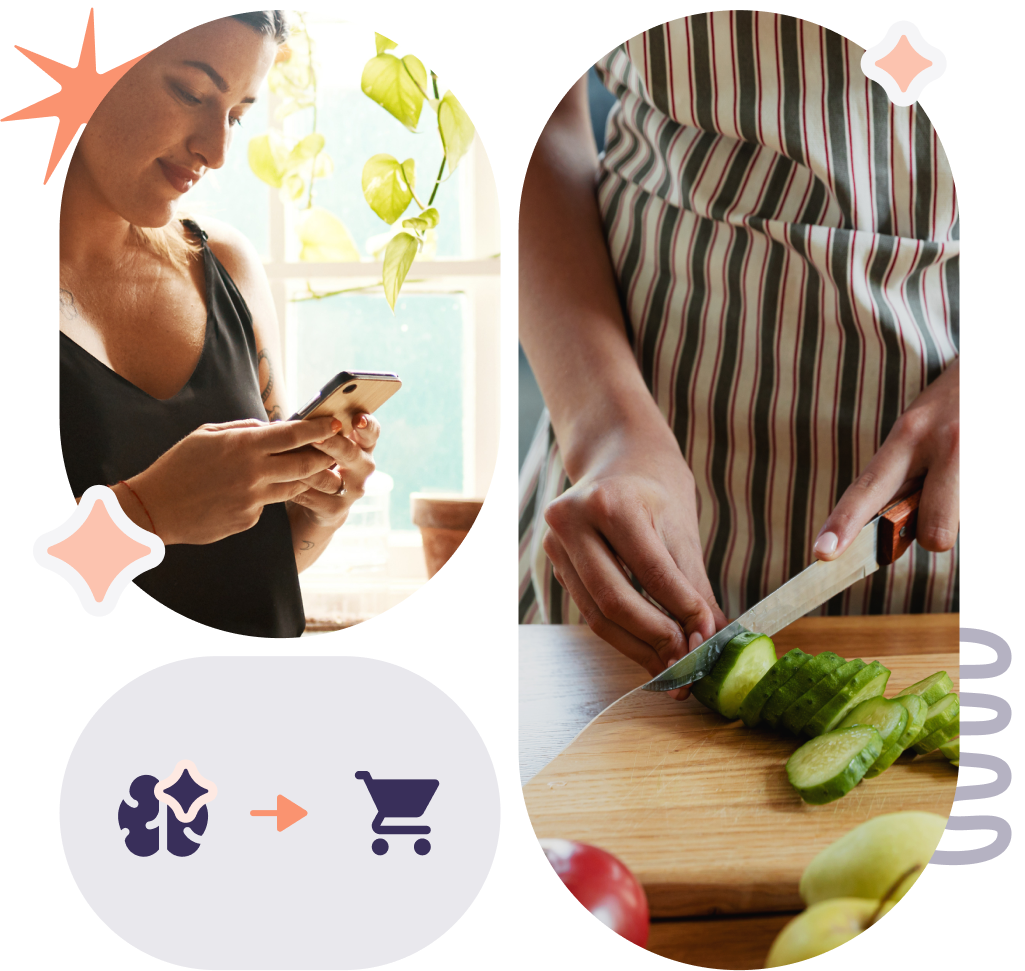
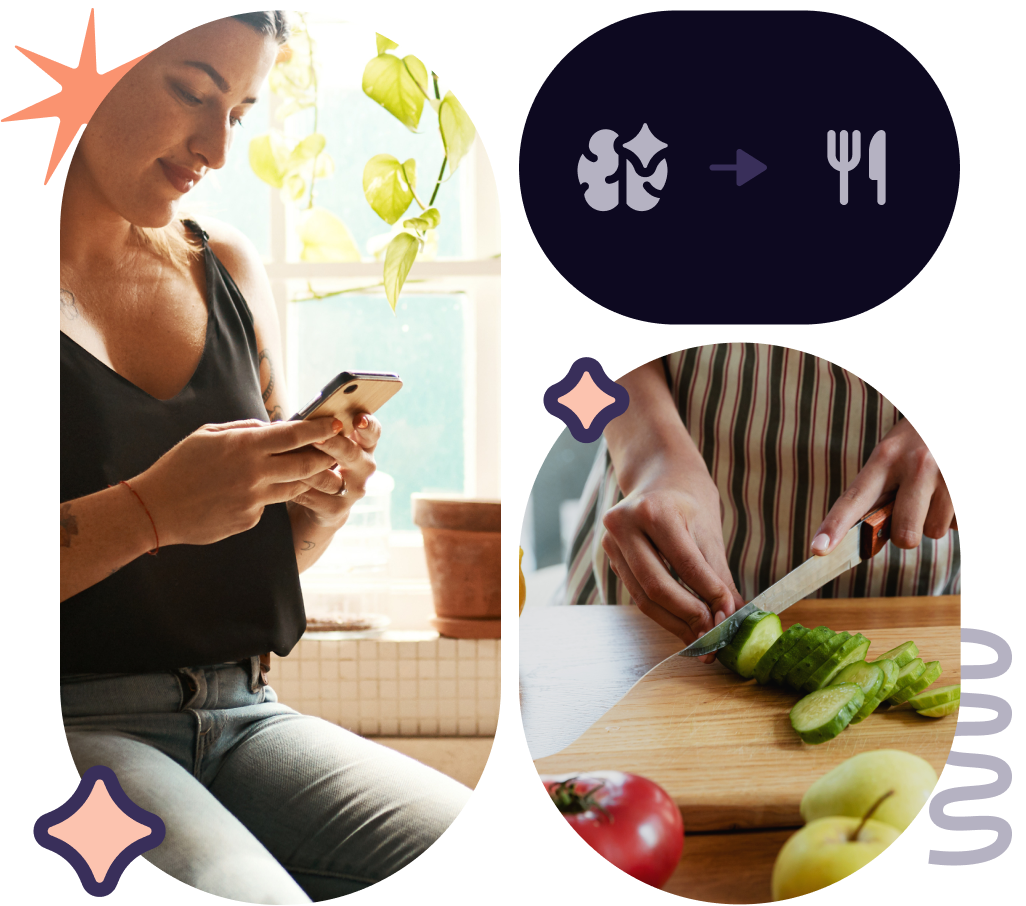
Add files via upload

diff --git a/index.html b/index.html
@@ -91,7 +91,7 @@
                         </li>-->
                         <li class="nav-item ">
                             <a href="form.html" class="btn btn-border-tp">
-                                Registrar 
+                                Criar plano alimentar 
                             </a>
                         </li>
                     </ul>
@@ -110,28 +110,28 @@
             <div class="col-lg-6 col-md-4">
                 <div class="main-hero">
                     
-                    <h1>
-                        Organize sua <br> rotina alimentar <br>de forma fácil
+                    <h1 class="text-color-2">
+                        Simplifique sua <br> rotina alimentar <br>
                     </h1>
 
-                    <p class="lead">
+                    <p class="lead text-color-2">
                         Nutrie é a inteligência artificial que ajuda a ter uma vida mais saudável e prática.
                     </p>
 
                     <!-- Button -->
-                    <a href="form.html" class="btn btn-main-2">
+                    <a href="form.html" class="btn btn-main-3">
                         Criar plano alimentar <i class="ti-angle-double-right ml-2"></i>
                     </a>
                     <div class="bullet-hero">
                         <div class="d-flex">
                             <img src="images/icon/icons_check.svg" class="icon-hero">
-                            <p class="lead">
+                            <p class="font-weight-bold text-color-2">
                             100% gratuito
                             </p>
                         </div>
                         <div class="d-flex">
                             <img src="images/icon/icons_check.svg" class="icon-hero">
-                            <p class="lead">
+                            <p class="font-weight-bold text-color-2">
                             Simples e rápido
                             </p>
                         </div>
@@ -284,7 +284,7 @@
 
 <section class="section-steps">
 
-    <div class="row d-flex justify-content-center">
+    <div class="d-flex justify-content-center">
             
         <div class="col-lg-4">
             <div class="heading-steps align-items-left">
@@ -370,9 +370,9 @@
     <div class="container">
         <div class="row justify-content-start">
             <div class="col-lg-4 col-sm-6 mr-auto ">
-                <div class="footer-widget mb-5 mb-lg-0">
+                <div class="footer-widget mb-5 mb-lg-0  justify-content-between">
                     <!-- Brand -->
-                    <h2 class="mb-4"><span class="text-color-2">Nutrie</span></h2>
+                    <img src="images/logo.svg" class="img-fluid favicon">
                     <!--<p class="mb-4">The Template has been made with bootstrap4 with core functionalises.Lorem ipsum dolor sit amet, consectetur adipisicing elit.</p>
                      Links -->
                     <ul class="list-inline footer-socials">

diff --git a/css/style.css b/css/style.css
@@ -240,6 +240,12 @@ Common Styles
   color: #fff !important;
 }
 
+.btn-main-3 {
+  background: #FA9370;
+  border-color: #FA9370;
+  color: #392F5A !important;
+}
+
 /*------------------------
  BACKGROUND
 ----------------------------*/
@@ -411,6 +417,7 @@ PAGE BANNER
 
 .navbar {
   position: relative;
+  padding: 0px;
 }
 
 .fixed-top {
@@ -547,12 +554,12 @@ PAGE BANNER
  HOME -2 
 -----------------------------*/
 .hero {
-  background: #F5F5F7;
+  background: #392F5A;
   padding-top: 100px;
-  padding-bottom: 40px;
   justify-content: center; /* Horizontally center the content */
   align-items: center; /* Vertically center the content */
-  }
+  padding-bottom: 40px;
+}
 
 .top-hero{
   max-width: 340px;
@@ -565,7 +572,9 @@ PAGE BANNER
   padding-bottom: 120px;
   justify-content: center; /* Horizontally center the content */
   align-items: center; /* Vertically center the content */
+  padding-top: 80px;
 }
+
 
 .div-banner{
 align-items: center;
@@ -581,7 +590,7 @@ justify-content: space-between;
   justify-content: center; /* Horizontally center the content */
   align-items: center; /* Vertically center the content */
   margin-top: 60px;
-  margin-bottom: 80px;
+  margin-bottom: 40px;
 }
 
 .icon-hero{
@@ -1393,6 +1402,10 @@ CONTACT PAGE
 
 .footer-btm-menu a:hover {
   color: #FA9370;
+}
+
+.footer-socials{
+  margin-top: 40px;
 }
 
 .footer-socials a {

diff --git a/form.html b/form.html
@@ -280,9 +280,9 @@
     <div class="container">
         <div class="row justify-content-start">
             <div class="col-lg-4 col-sm-6 mr-auto ">
-                <div class="footer-widget mb-5 mb-lg-0">
+                <div class="footer-widget mb-5 mb-lg-0  justify-content-between">
                     <!-- Brand -->
-                    <h2 class="mb-4"><span class="text-color-2">Nutrie</span></h2>
+                    <img src="images/logo.svg" class="img-fluid favicon">
                     <!--<p class="mb-4">The Template has been made with bootstrap4 with core functionalises.Lorem ipsum dolor sit amet, consectetur adipisicing elit.</p>
                      Links -->
                     <ul class="list-inline footer-socials">

diff --git a/thanks.html b/thanks.html
@@ -114,9 +114,9 @@
     <div class="container">
         <div class="row justify-content-start">
             <div class="col-lg-4 col-sm-6 mr-auto ">
-                <div class="footer-widget mb-5 mb-lg-0">
+                <div class="footer-widget mb-5 mb-lg-0  justify-content-between">
                     <!-- Brand -->
-                    <h2 class="mb-4"><span class="text-color-2">Nutrie</span></h2>
+                    <img src="images/logo.svg" class="img-fluid favicon">
                     <!--<p class="mb-4">The Template has been made with bootstrap4 with core functionalises.Lorem ipsum dolor sit amet, consectetur adipisicing elit.</p>
                      Links -->
                     <ul class="list-inline footer-socials">
